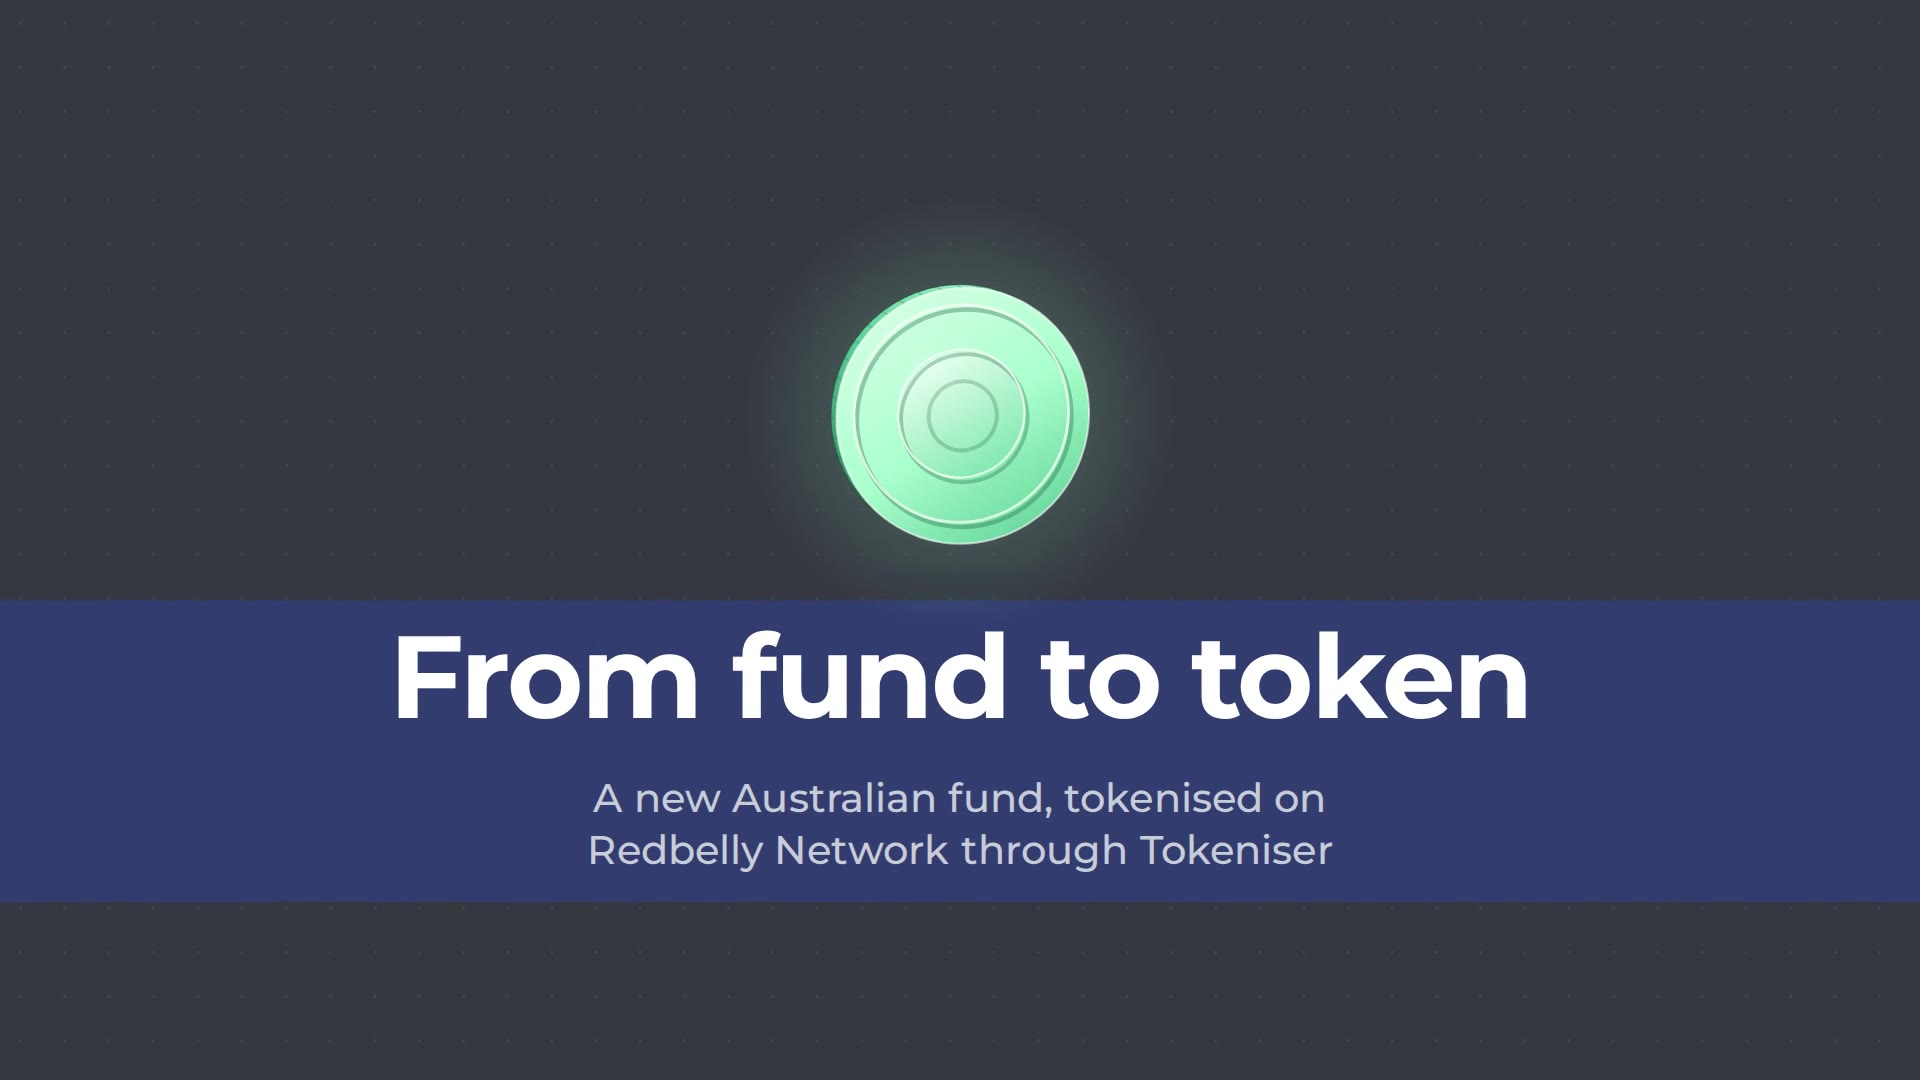
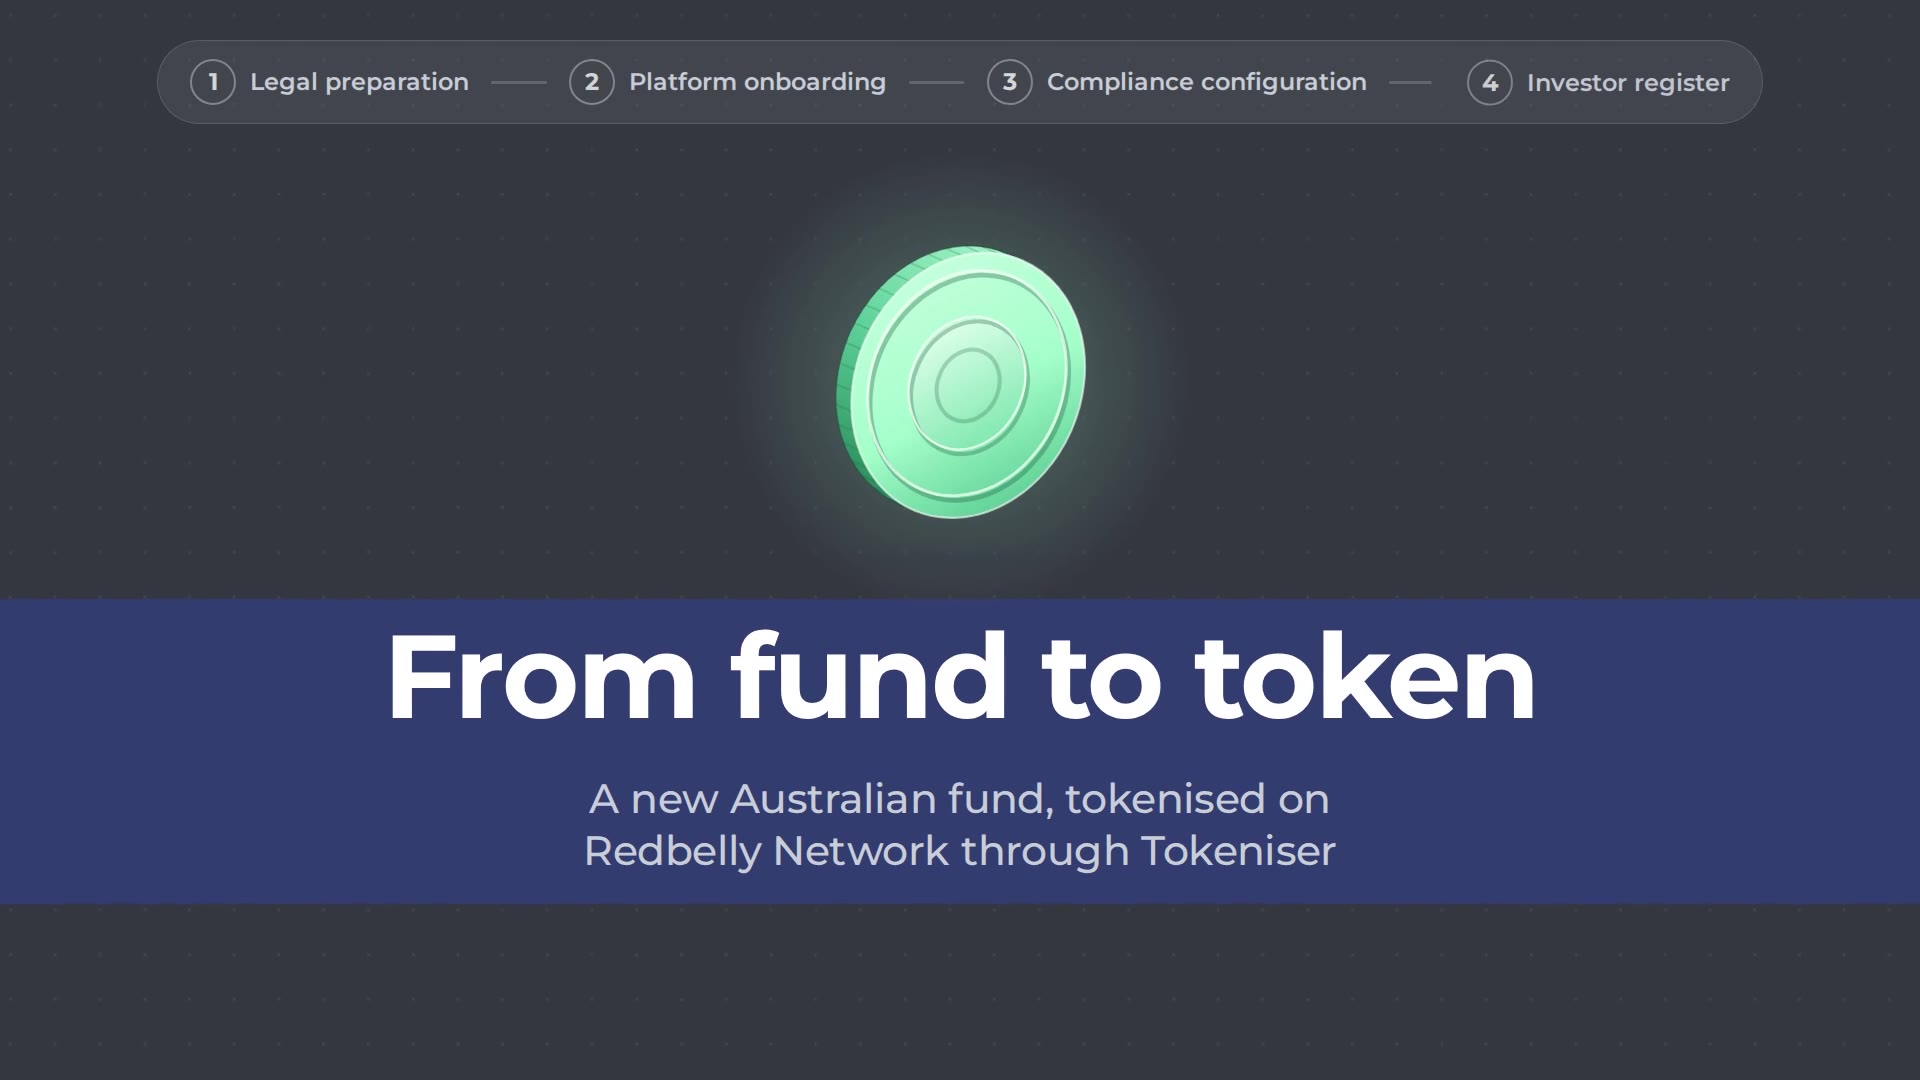
Let viewers turn subtitles on and off on the website

diff --git a/public/index.html b/public/index.html
@@ -23,6 +23,9 @@ h1{margin:0 0 10px;font-weight:700;font-size:clamp(36px,6vw,64px);line-height:1.
 .lead{margin:0 0 28px;max-width:44ch;font-weight:500;font-size:clamp(18px,2.3vw,21px);color:var(--ink)}
 .player{margin:0;background:#fff;border-radius:20px;padding:10px}
 video{display:block;width:100%;height:auto;border-radius:12px;background:#fff}
+video::cue{font-family:Montserrat,system-ui,sans-serif;font-weight:600;color:#fff;background:rgba(32,35,42,.84)}
+.cc{display:inline-block;margin:10px 0 2px 4px;padding:8px 16px;border:2px solid var(--ink);border-radius:999px;background:#fff;color:var(--ink);font:600 15px/1.2 Montserrat,system-ui,sans-serif;cursor:pointer}
+.cc[aria-pressed="false"]{background:var(--mist);color:var(--muted);border-color:var(--line)}
 .downloads{list-style:none;margin:20px 0 0;padding:0;display:grid;grid-template-columns:repeat(auto-fill,minmax(160px,1fr));gap:10px}
 .downloads a{display:block;padding:12px 16px;background:#fff;border:2px solid #fff;border-radius:12px;text-decoration:none;color:var(--ink);font-weight:600;font-size:16px}
 .downloads a:hover{border-color:var(--ink)}
@@ -63,7 +66,8 @@ footer{padding:24px 24px 48px;font-size:14px;color:var(--muted)}
 <div class="wrap">
 <h1>From fund to token</h1>
 <p class="lead">How a new Australian fund becomes a token on Redbelly Network, through Tokeniser, in 1:23.</p>
-<figure class="player"><video controls preload="metadata" playsinline poster="video/poster.jpg?v=eacc84d63b"><source src="video/tokenisation-explainer.mp4?v=98cba87c69" type="video/mp4"></video></figure>
+<figure class="player"><video id="v" controls preload="metadata" playsinline poster="video/poster.jpg?v=b867003a53"><source src="video/tokenisation-explainer-clean.mp4?v=ad1e32a045" type="video/mp4"><track kind="captions" src="video/tokenisation-explainer.vtt?v=263fc99da1" srclang="en" label="English" default></video>
+<button id="cc" class="cc" type="button" aria-pressed="true">Subtitles: on</button></figure>
 <ul class="downloads">
 <li><a href="video/tokenisation-explainer.mp4?v=98cba87c69" download>Video with subtitles<span>MP4, 60 fps, 15.7 MB</span></a></li>
 <li><a href="video/tokenisation-explainer-clean.mp4?v=ad1e32a045" download>Video without subtitles<span>MP4, 15.0 MB</span></a></li>
@@ -201,5 +205,23 @@ footer{padding:24px 24px 48px;font-size:14px;color:var(--muted)}
 </section>
 </main>
 <footer class="wrap">Last verified 14 Oct 2026. Script version 2.</footer>
+<script>
+(function () {
+  var v = document.getElementById('v'), b = document.getElementById('cc');
+  function sync() {
+    var on = false;
+    for (var i = 0; i < v.textTracks.length; i++) if (v.textTracks[i].mode === 'showing') on = true;
+    b.setAttribute('aria-pressed', on ? 'true' : 'false'); b.textContent = on ? 'Subtitles: on' : 'Subtitles: off';
+  }
+  b.addEventListener('click', function () {
+    var on = b.getAttribute('aria-pressed') !== 'true';
+    for (var i = 0; i < v.textTracks.length; i++) v.textTracks[i].mode = on ? 'showing' : 'hidden';
+    sync();
+  });
+  v.textTracks.addEventListener('change', sync);
+  if (v.textTracks.length) v.textTracks[0].mode = 'showing';
+  sync();
+})();
+</script>
 </body>
 </html>

diff --git a/scripts/build_site.py b/scripts/build_site.py
@@ -14,6 +14,25 @@ def ver(p):
 def mmss(t):
     return f"{int(t // 60)}:{int(t % 60):02d}"
 
+CC_SCRIPT = """<script>
+(function () {
+  var v = document.getElementById('v'), b = document.getElementById('cc');
+  function sync() {
+    var on = false;
+    for (var i = 0; i < v.textTracks.length; i++) if (v.textTracks[i].mode === 'showing') on = true;
+    b.setAttribute('aria-pressed', on ? 'true' : 'false'); b.textContent = on ? 'Subtitles: on' : 'Subtitles: off';
+  }
+  b.addEventListener('click', function () {
+    var on = b.getAttribute('aria-pressed') !== 'true';
+    for (var i = 0; i < v.textTracks.length; i++) v.textTracks[i].mode = on ? 'showing' : 'hidden';
+    sync();
+  });
+  v.textTracks.addEventListener('change', sync);
+  if (v.textTracks.length) v.textTracks[0].mode = 'showing';
+  sync();
+})();
+</script>"""
+
 def main():
     S = json.loads((ROOT / "content/script.json").read_text(encoding="utf-8"))
     TL = json.loads((ROOT / "out/voice/timeline.json").read_text(encoding="utf-8"))
@@ -77,6 +96,9 @@ h1{{margin:0 0 10px;font-weight:700;font-size:clamp(36px,6vw,64px);line-height:1
 .lead{{margin:0 0 28px;max-width:44ch;font-weight:500;font-size:clamp(18px,2.3vw,21px);color:var(--ink)}}
 .player{{margin:0;background:#fff;border-radius:20px;padding:10px}}
 video{{display:block;width:100%;height:auto;border-radius:12px;background:#fff}}
+video::cue{{font-family:Montserrat,system-ui,sans-serif;font-weight:600;color:#fff;background:rgba(32,35,42,.84)}}
+.cc{{display:inline-block;margin:10px 0 2px 4px;padding:8px 16px;border:2px solid var(--ink);border-radius:999px;background:#fff;color:var(--ink);font:600 15px/1.2 Montserrat,system-ui,sans-serif;cursor:pointer}}
+.cc[aria-pressed="false"]{{background:var(--mist);color:var(--muted);border-color:var(--line)}}
 .downloads{{list-style:none;margin:20px 0 0;padding:0;display:grid;grid-template-columns:repeat(auto-fill,minmax(160px,1fr));gap:10px}}
 .downloads a{{display:block;padding:12px 16px;background:#fff;border:2px solid #fff;border-radius:12px;text-decoration:none;color:var(--ink);font-weight:600;font-size:16px}}
 .downloads a:hover{{border-color:var(--ink)}}
@@ -117,7 +139,8 @@ footer{{padding:24px 24px 48px;font-size:14px;color:var(--muted)}}
 <div class="wrap">
 <h1>{E(m["title"])}</h1>
 <p class="lead">{E(m["subtitle"])}, in {mmss(TL["total_seconds"])}.</p>
-<figure class="player"><video controls preload="metadata" playsinline poster="{u("video/poster.jpg")}"><source src="{u("video/tokenisation-explainer.mp4")}" type="video/mp4"></video></figure>
+<figure class="player"><video id="v" controls preload="metadata" playsinline poster="{u("video/poster.jpg")}"><source src="{u("video/tokenisation-explainer-clean.mp4")}" type="video/mp4"><track kind="captions" src="{u("video/tokenisation-explainer.vtt")}" srclang="en" label="English" default></video>
+<button id="cc" class="cc" type="button" aria-pressed="true">Subtitles: on</button></figure>
 <ul class="downloads">
 {dl}
 </ul>
@@ -152,6 +175,7 @@ footer{{padding:24px 24px 48px;font-size:14px;color:var(--muted)}}
 </section>
 </main>
 <footer class="wrap">Last verified {verified}. Script version {E(m["version"])}.</footer>
+{CC_SCRIPT}
 </body>
 </html>
 '''

diff --git a/scripts/encode.py b/scripts/encode.py
@@ -51,7 +51,7 @@ def main():
         lst.write_text("".join(f"file '{OUT / f'seg_{variant}_{i}.mp4'}'\n" for i in range(len(segs))))
         run(["-f", "concat", "-safe", "0", "-i", str(lst), "-i", "out/audio/mix.wav", "-map", "0:v", "-map", "1:a", "-c:v", "copy"] + meta + [str(OUT / name)])
         print(name, f"{(OUT / name).stat().st_size / 1e6:.1f} MB")
-    run(["-ss", "5.0", "-i", str(OUT / "tokenisation-explainer-clean.mp4"), "-frames:v", "1", "-q:v", "3", str(OUT / "poster.jpg")])
+    run(["-ss", "7.4", "-i", str(OUT / "tokenisation-explainer-clean.mp4"), "-frames:v", "1", "-q:v", "3", str(OUT / "poster.jpg")])
 
 if __name__ == "__main__":
     main()
